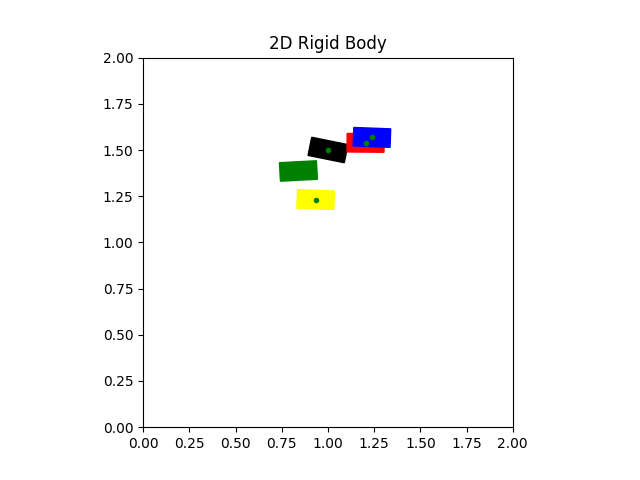
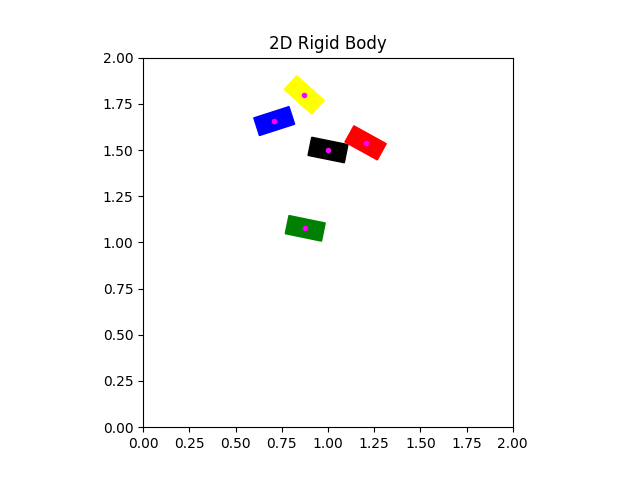
Updated Images

Changed region(s): [[0.4375, 0.3125, 0.5312, 0.5], [0.375, 0.1562, 0.5312, 0.2812], [0.5312, 0.25, 0.625, 0.3438]]

diff --git a/rigid_body_2.py b/rigid_body_2.py
@@ -47,9 +47,12 @@ def D(point):
 configurations = np.load(rigid_configs_file, allow_pickle= True)
 print(configurations)
 
-#Convert to Radians
+#Convert to Radians[Commented Out Because I found No Need For It]
+# thetas = configurations[:, 2].flatten()
+# thetas = np.deg2rad(thetas)
+
+#Assumes that the values are already in Radians
 thetas = configurations[:, 2].flatten()
-thetas = np.deg2rad(thetas)
 
 #Put in range [-pi, pi]
 thetas = thetas - (2 * np.pi * (np.floor((thetas + np.pi) / (2 * np.pi))))

diff --git a/utils_p2.py b/utils_p2.py
@@ -228,7 +228,7 @@ class RigidBody:
         self.ax.add_patch(rectangle_patch)
 
         # Plot Centroid of rectangle
-        body_centroid = self.ax.plot(configuration[0], configuration[1], marker='o', markersize=3, color="green")
+        body_centroid = self.ax.plot(configuration[0], configuration[1], marker='o', markersize=3, color="magenta")
                 
     #Generate a Rigid Body from the Configuration Information
     def generate_rigid_body_from_configuration(self, configuration):
